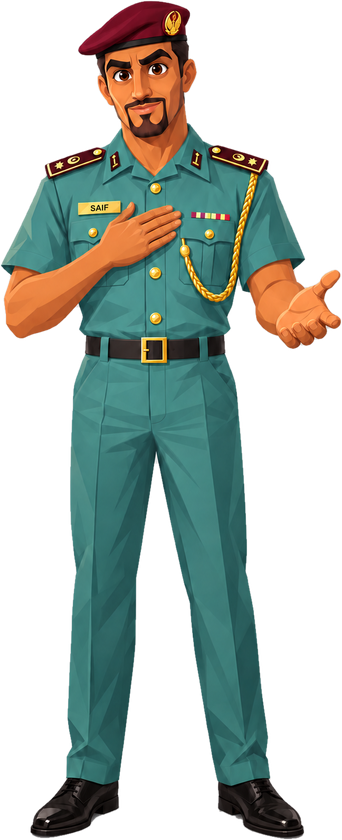
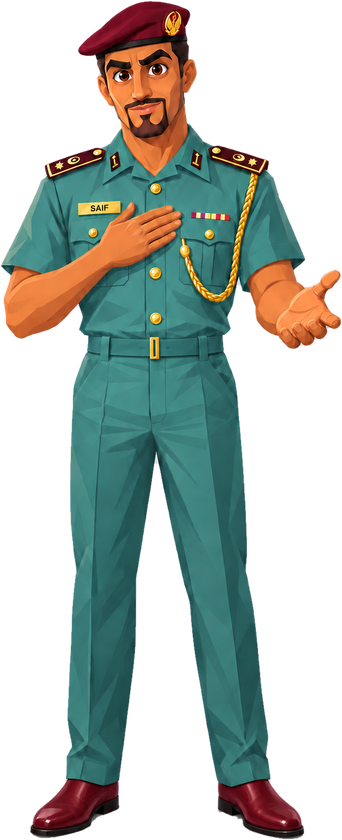
Briefing: final Saif uniform + UAQ Police GHQ background
Replace all six Saif poses with the client's final-uniform set (maroon
boots). Briefing screen now uses the Umm Al Quwain Police General HQ
backdrop supplied in two native orientations — portrait file on
portrait screens, landscape file on landscape — via a new bg variant
on Shell/Background. Rest of the game keeps the fort.

diff --git a/src/components/Background.tsx b/src/components/Background.tsx
@@ -5,7 +5,45 @@
    - رأسي (الهاتف): الصورة بكامل عرضها مثبتة أسفل الشاشة حتى يظهر الحصن كاملاً،
      وسماء متدرجة تكمل الأعلى بلون حافة الصورة نفسها، مع تلاشٍ ناعم عند الالتقاء. */
 
-export default function Background({ dim = 0 }: { dim?: number }) {
+export default function Background({
+  dim = 0,
+  variant = 'fort',
+}: {
+  dim?: number;
+  variant?: 'fort' | 'hq';
+}) {
+  if (variant === 'hq') {
+    // مقر شرطة أم القيوين: نسختان أصليتان — عرضية وطولية — كلٌّ تملأ اتجاهها
+    return (
+      <div aria-hidden className="pointer-events-none fixed inset-0 -z-10 overflow-hidden">
+        {/* eslint-disable-next-line @next/next/no-img-element */}
+        <img
+          src="/art/hq-h.jpg"
+          alt=""
+          className="absolute inset-0 hidden h-full w-full object-cover landscape:block"
+        />
+        {/* eslint-disable-next-line @next/next/no-img-element */}
+        <img
+          src="/art/hq-v.jpg"
+          alt=""
+          className="absolute inset-0 hidden h-full w-full object-cover portrait:block"
+        />
+        <div
+          className="absolute inset-0"
+          style={{
+            background:
+              'linear-gradient(180deg, rgba(255,255,255,0.06) 0%, rgba(255,255,255,0.02) 45%, rgba(255,251,240,0.22) 100%)',
+          }}
+        />
+        {dim > 0 && (
+          <div
+            className="absolute inset-0"
+            style={{ background: `rgba(248, 251, 255, ${Math.min(0.85, dim * 0.75)})` }}
+          />
+        )}
+      </div>
+    );
+  }
   return (
     <div aria-hidden className="pointer-events-none fixed inset-0 -z-10 overflow-hidden">
       {/* الوضع العرضي */}

diff --git a/src/components/Shell.tsx b/src/components/Shell.tsx
@@ -8,15 +8,17 @@ export default function Shell({
   children,
   dim = 0,
   wide,
+  bg = 'fort',
 }: {
   children: React.ReactNode;
   dim?: number;
   wide?: boolean;
+  bg?: 'fort' | 'hq';
 }) {
   const { lang, dir } = usePrefs();
   return (
     <div dir={dir} lang={lang} className="min-h-dvh overflow-x-clip">
-      <Background dim={dim} />
+      <Background dim={dim} variant={bg} />
       <main
         className={`mx-auto flex min-h-dvh w-full flex-col px-4 py-6 pb-10 ${wide ? 'max-w-6xl' : 'max-w-2xl'}`}
       >

diff --git a/src/app/play/page.tsx b/src/app/play/page.tsx
@@ -333,7 +333,7 @@ export default function Play() {
   if (phase === 'brief') {
     const words = s.briefText.split(' ');
     return (
-      <Shell dim={0.3}>
+      <Shell dim={0.12} bg="hq">
         <div
           className="anim-in flex min-h-[92dvh] flex-col"
           onClick={() => {
